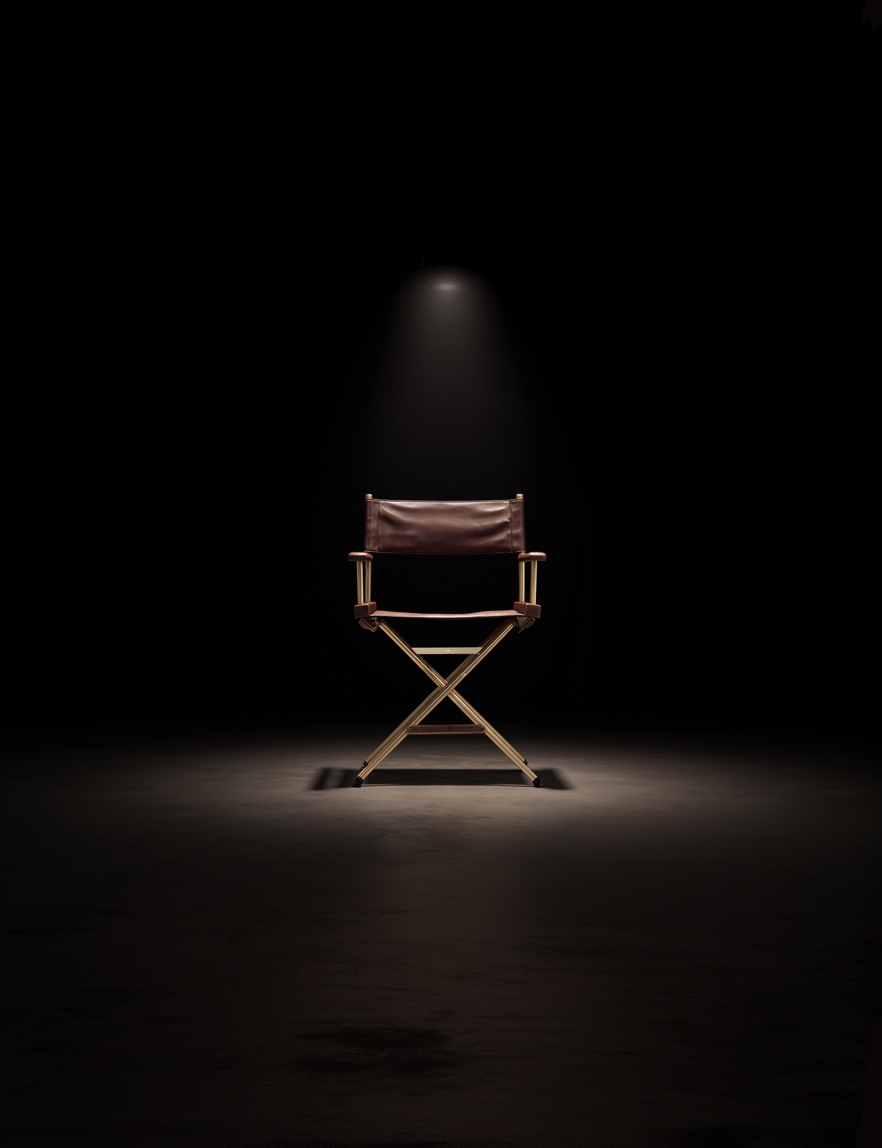
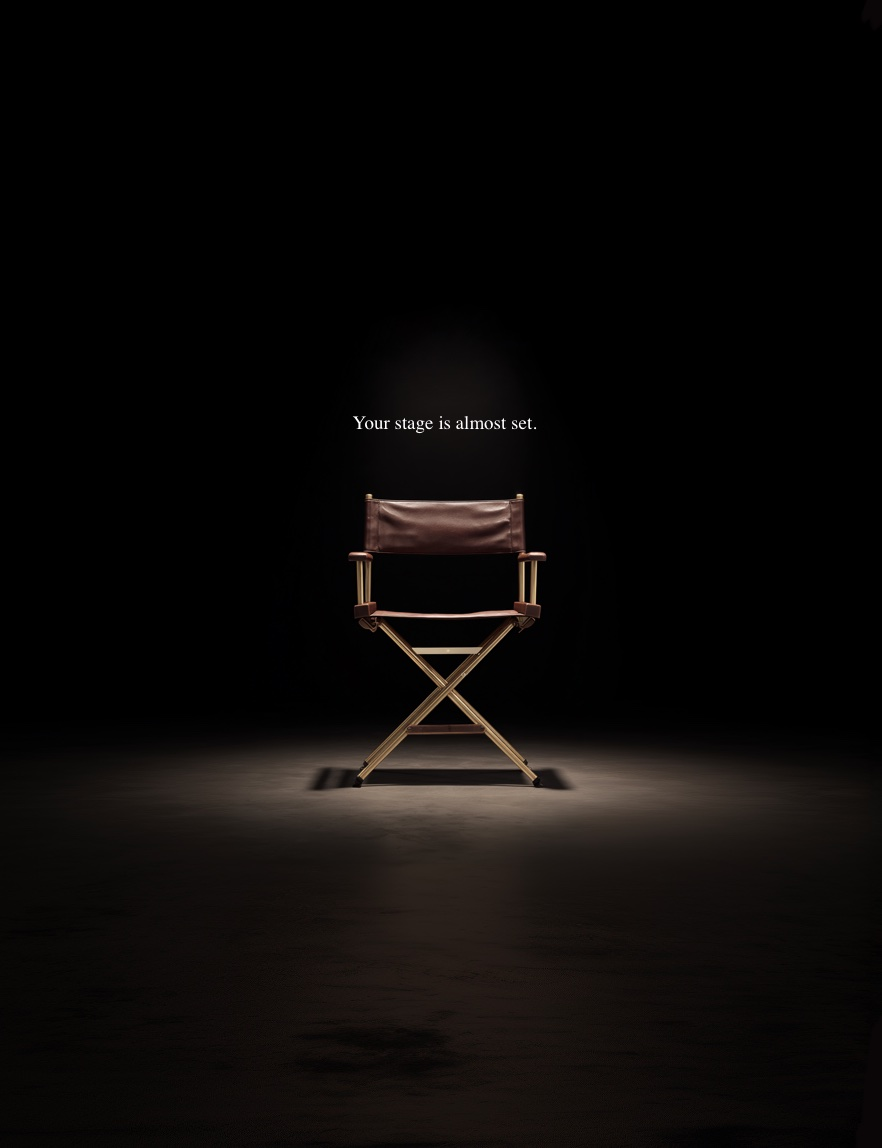
Remove hero text overlay and update chair image

Changed region(s): [[0.4592, 0.2134, 0.551, 0.3049], [0.5204, 0.3659, 0.6122, 0.3963], [0.398, 0.3659, 0.4898, 0.3963]]

diff --git a/index.html b/index.html
@@ -11,7 +11,7 @@
     <link rel="preconnect" href="https://fonts.googleapis.com" />
     <link rel="preconnect" href="https://fonts.gstatic.com" crossorigin />
     <link
-      href="https://fonts.googleapis.com/css2?family=Cormorant+Garamond:wght@400;500;600&family=Montserrat:wght@400;500;600&display=swap"
+      href="https://fonts.googleapis.com/css2?family=Montserrat:wght@400;500;600&display=swap"
       rel="stylesheet"
     />
     <link rel="stylesheet" href="./styles.css" />
@@ -19,10 +19,6 @@
   <body>
     <main class="hero">
       <img class="chair" src="./assets/Chair.jpg" alt="Director chair" />
-      <section class="copy">
-        <p class="brand">WAKING DREAM</p>
-        <h1>Your stage is almost set.</h1>
-      </section>
       <section class="beta-card" aria-label="Apply for private beta">
         <p class="beta-title">Private Beta</p>
         <form class="beta-form" action="#" method="post">

diff --git a/styles.css b/styles.css
@@ -52,29 +52,6 @@ body {
   filter: drop-shadow(0 24px 44px rgba(0, 0, 0, 0.48));
 }
 
-.copy {
-  position: relative;
-  z-index: 2;
-  max-width: 560px;
-  animation: fade-up 900ms cubic-bezier(0.22, 1, 0.36, 1) both;
-}
-
-.brand {
-  margin: 0;
-  font-size: 0.7rem;
-  letter-spacing: 0.34em;
-  color: var(--text-soft);
-}
-
-h1 {
-  margin: 14px 0 0;
-  font-family: "Cormorant Garamond", Georgia, "Times New Roman", serif;
-  font-weight: 500;
-  font-size: clamp(2.2rem, 6.6vw, 5.1rem);
-  line-height: 0.9;
-  text-wrap: balance;
-}
-
 .beta-card {
   position: absolute;
   right: clamp(28px, 7vw, 84px);
